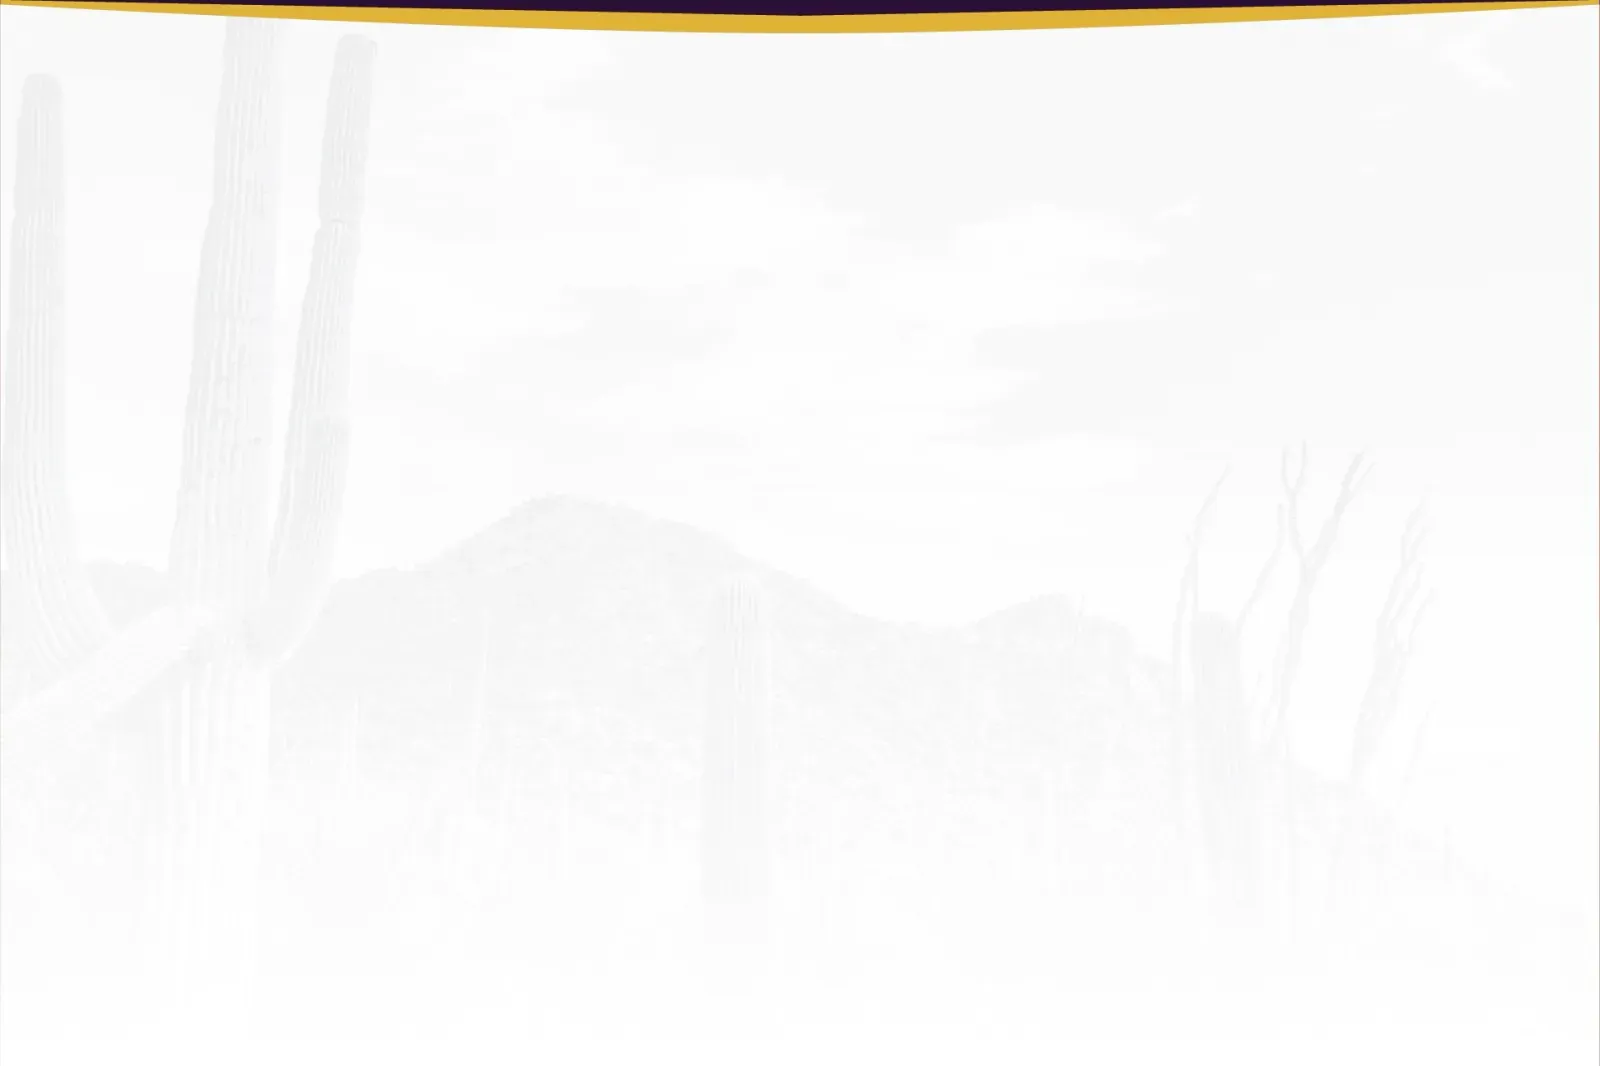
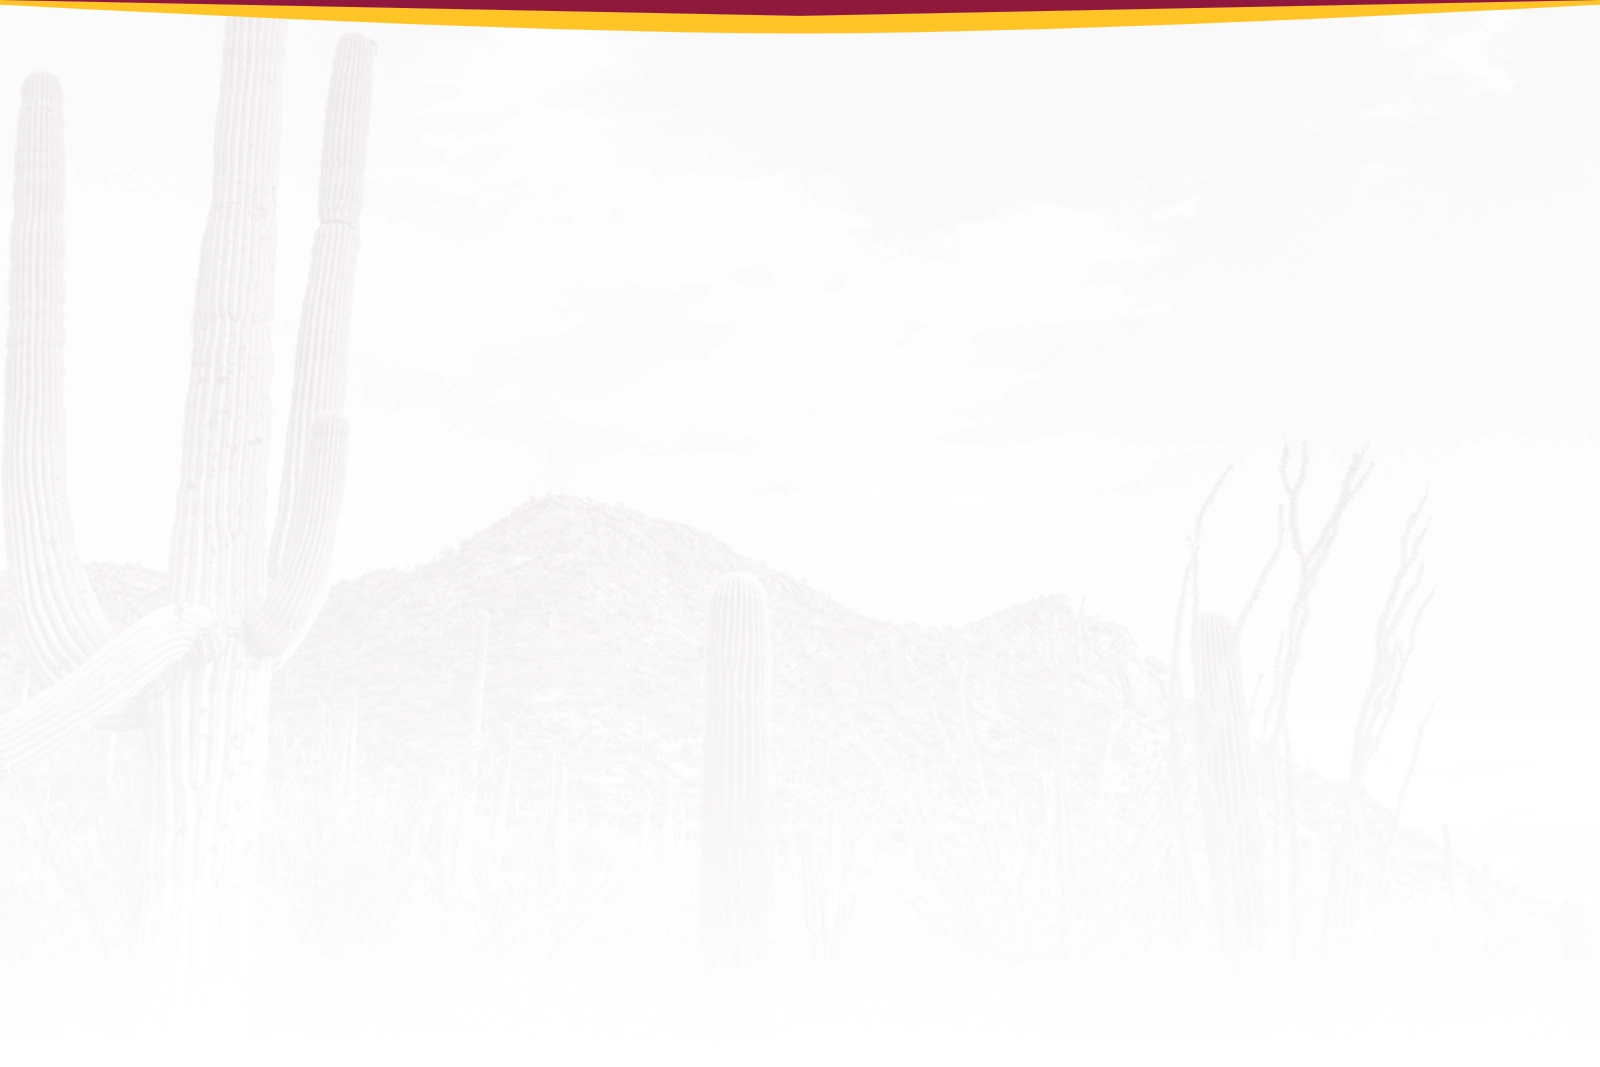
Color Edits

Changed region(s): [[0.0, 0.0, 1.0, 0.031]]

diff --git a/css/unstoppableaz.css b/css/unstoppableaz.css
@@ -1,20 +1,20 @@
 :root {
-  --purple-20: #543567;
+  --purple-20: #5F1931;
   --black: #1a1a1a;
-  --purple: #804fa0;
-  --yellow: #ddb249;
-  --purple-80: #2c0d37;
+  --purple: #8E0D3A;
+  --yellow: #FFC424;
+  --purple-80: #2F0613;
   --white: white;
-  --light-yellow: #e9cd8a;
-  --white-yellow: #f7eed3;
-  --purple-40: #3f284e;
+  --light-yellow: #FFD968;
+  --white-yellow: #FFF3CF;
+  --purple-40: #471020;
   --white-40: #a6a8aa;
   --card: #ffffff4d;
-  --light-purple: #a689bb;
+  --light-purple: #B84C72;
   --white-20: #d0d1d3;
-  --yellow-20: #b5943d;
-  --yellow-40: #90782f;
-  --white-purple: #dbd0e5;
+  --yellow-20: #D9A000;
+  --yellow-40: #A87900;
+  --white-purple: #F1D6E0;
 }
 
 .w-form-formrecaptcha {
@@ -123,7 +123,7 @@ li {
 
 .header-main {
   background-color: var(--purple-80);
-  background-image: linear-gradient(#2c0d37b3, #2c0d37 93%), url('../images/home-hero.webp');
+  background-image: linear-gradient(#2F0613b3, #2F0613 93%), url('../images/home-hero.webp');
   background-position: 0 0, 100% 20%;
   background-repeat: repeat, no-repeat;
   padding-top: 13rem;
@@ -407,7 +407,7 @@ li {
 }
 
 .section-main.purple.bg-image {
-  background-image: linear-gradient(180deg, var(--purple-80), #2c0d374d 50%, var(--purple-80)), url('../images/anthony-robles_background-edit.png');
+  background-image: linear-gradient(180deg, var(--purple-80), #2F06134d 50%, var(--purple-80)), url('../images/anthony-robles_background-edit.png');
   background-position: 0 0, -150px 0;
   background-repeat: repeat, no-repeat;
   background-size: auto, auto;
@@ -1670,7 +1670,7 @@ li {
   }
 
   .section-main.purple.bg-image {
-    background-image: linear-gradient(180deg, var(--purple-80), #2c0d37cc 50%, var(--purple-80)), url('../images/anthony-robles_background-edit.png');
+    background-image: linear-gradient(180deg, var(--purple-80), #2F06134d 50%, var(--purple-80)), url('../images/anthony-robles_background-edit.png');
     background-position: 0 0, -150px 0;
     background-repeat: repeat, no-repeat;
     background-size: auto, auto;
